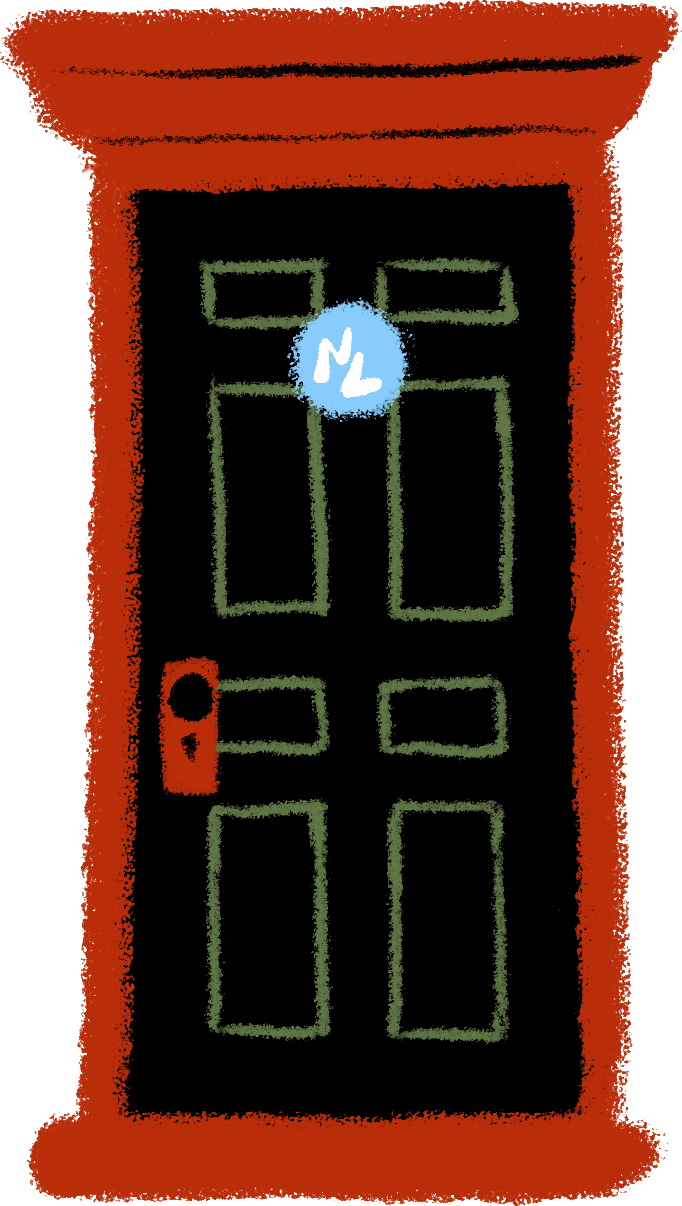
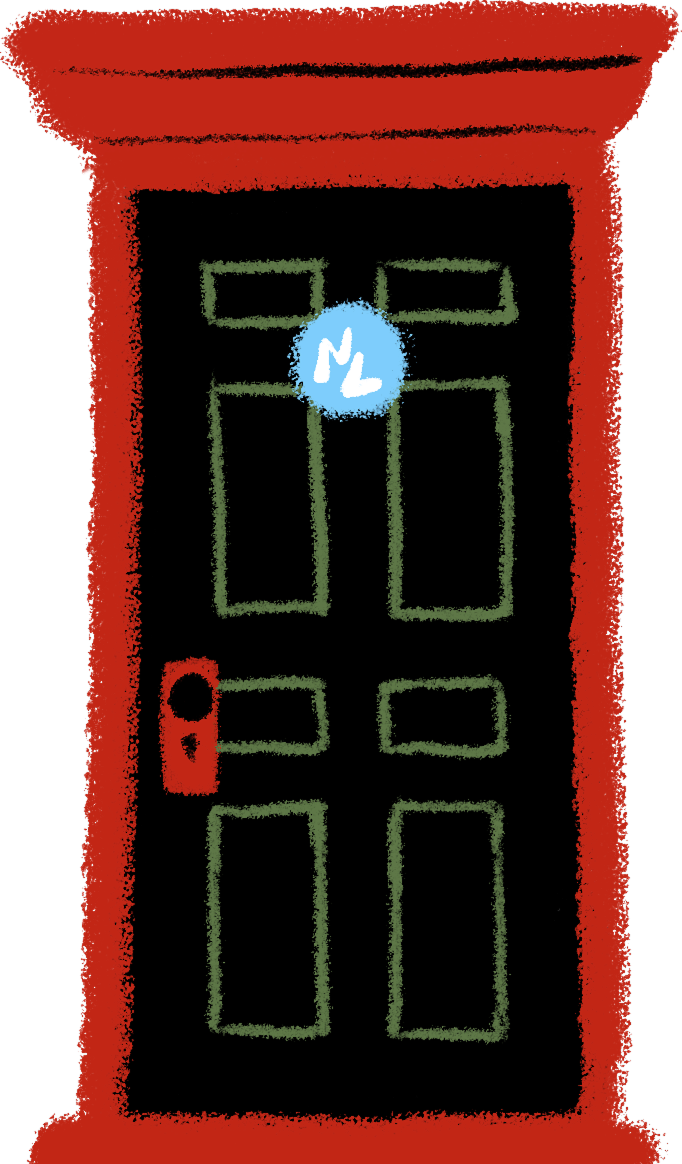
remove door offset

Changed region(s): [[0.0, 0.0, 1.0, 1.0]]

diff --git a/Portfolio Website/portfolio/style.css b/Portfolio Website/portfolio/style.css
@@ -5,6 +5,7 @@ html{
   text-decoration: none;
 }
 body {
+  background-color: #BA2D0B;
   background-image: linear-gradient(#88CCFB, #88CCFB, #1A275F, #1A275F);
   background-attachment: fixed;
   overscroll-behavior: none;
@@ -16,6 +17,7 @@ body {
   position: fixed;
   width: 100vw;
   height: 100vh;
+  overflow: hidden;
   top: 0;
   left: 0;
   background-color: #242528;
@@ -164,6 +166,7 @@ body {
   position: absolute;
   left: 25%;
   padding-top: 5%;
+  /* margin-bottom: 0;*/
 }
 
 .bird {
@@ -205,7 +208,8 @@ body {
     top: 105vh;
   }
   #door {
-    padding-top: 0;
+    /* padding: 0;  */
+    left: 0;
   }
 }
 @media screen and (max-width: 530px) {

diff --git a/Portfolio Website/portfolio/index.html b/Portfolio Website/portfolio/index.html
@@ -122,6 +122,7 @@
         <img src="image/awning.png" alt="awning" class="awning lazy-image" />
         <img src="image/awning.png" alt="awning" class="awning lazy-image" />
 
+        <div>
         <a
           href="https://git.arts.ac.uk/pages/23043904/webdevstudio_weekly_tasks/week_5/"
           target="_blank"
